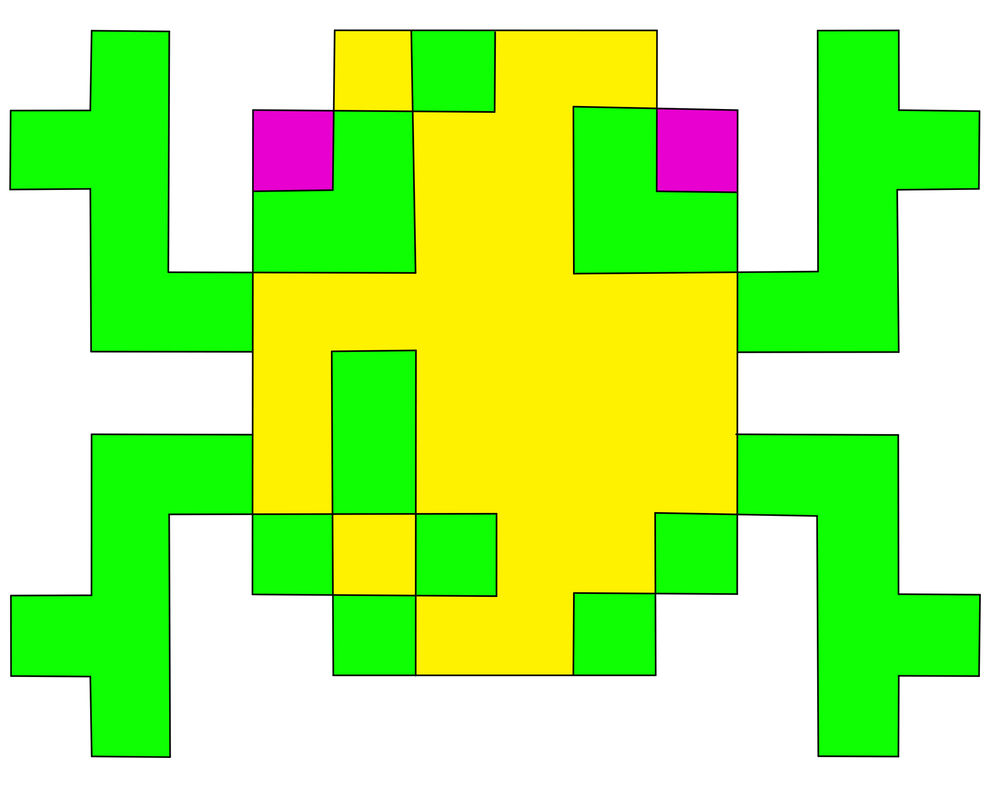
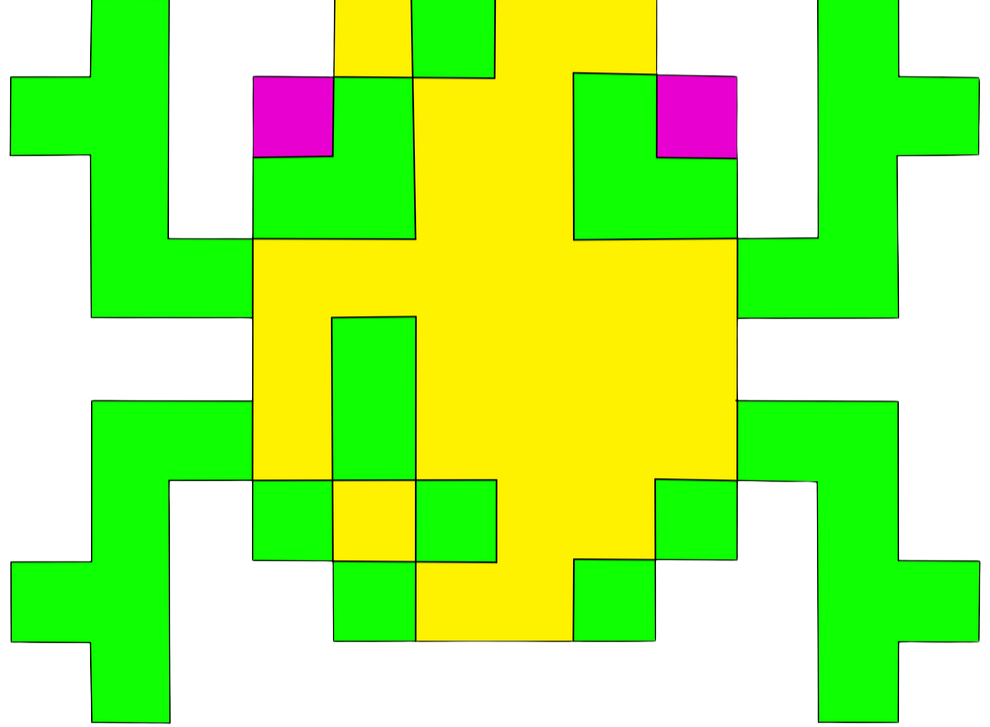
Movimiento rana acorde a filas y columnas arreglado

diff --git a/Frontend/Frontend_Allegro/screen.c b/Frontend/Frontend_Allegro/screen.c
@@ -1,6 +1,7 @@
 /*------------INCLUDES-----------*/
 #include "allegro.h"
 #include <stdio.h>
+#include <unistd.h>
 #include "../../Backend/frog.h"
 
 /*------Function Screen------*/
@@ -23,7 +24,7 @@ void Screen(AllegroResources *resources, uint8_t map[ROWS][COLUMNS], frog_t *fro
 
 
     // Tamaño de cada celda
-    uint32_t cell_width = (resources->width + 80) / (COLUMNS-6);
+    uint32_t cell_width = (resources->width + 80) / (COLUMNS-5);
     uint32_t cell_height = resources->height / ROWS;
 
     // Dibujar elementos del mapa
@@ -94,7 +95,7 @@ void Screen(AllegroResources *resources, uint8_t map[ROWS][COLUMNS], frog_t *fro
                         0, 0, // Coordenadas de origen
                         al_get_bitmap_width(image_to_draw),  // Ancho original
                         al_get_bitmap_height(image_to_draw), // Alto original
-                        x-350, y, // Posición en la pantalla compensado por las columnas restantes
+                        x-300, y, // Posición en la pantalla compensado por las columnas restantes
                         cell_width * counter, cell_height * compensate, // Nuevo ancho y alto
                         0 // Sin banderas adicionales
                     );
@@ -123,21 +124,19 @@ void Screen(AllegroResources *resources, uint8_t map[ROWS][COLUMNS], frog_t *fro
             } */
             
         // Obtener las coordenadas de la rana desde la estructura frog
-        int frog_x = get_frog_x(frog); // Obtener coordenada X de la rana
-        int frog_y = get_frog_y(frog); // Obtener coordenada Y de la rana
-
+        float frog_x = get_frog_x(frog); // Obtener coordenada X de la rana
+        float frog_y = get_frog_y(frog) + 0.20; // Obtener coordenada Y de la rana
         // Calcula la posición en la pantalla (si es necesario ajustar la escala)
-        int screen_x = frog_x * cell_width;  // Ajusta si la coordenada X se refiere a una celda
-        int screen_y = frog_y * cell_height; // Ajusta si la coordenada Y se refiere a una celda
-
+        float screen_x = frog_x * cell_width;  // Ajusta si la coordenada X se refiere a una celda
+        float screen_y = frog_y * cell_height; // Ajusta si la coordenada Y se refiere a una celda
         // Dibujar la rana
         al_draw_scaled_bitmap(
             resources->images[14],                   // Imagen de la rana
             0, 0,                                    // Coordenadas de origen de la imagen
             al_get_bitmap_width(resources->images[14]), // Ancho original de la imagen
             al_get_bitmap_height(resources->images[14]), // Alto original de la imagen
-            screen_x, screen_y,                      // Posición de la rana en la pantalla
-            cell_width, cell_height,                 // Tamaño ajustado para la rana
+            screen_x, (screen_y),                      // Posición de la rana en la pantalla
+            cell_width*0.9, cell_height*0.9,                 // Tamaño ajustado para la rana
             0                                         // Sin banderas adicionales
         );
     }

diff --git a/Frontend/Frontend_Allegro/events.c b/Frontend/Frontend_Allegro/events.c
@@ -33,16 +33,14 @@ void events_managment(AllegroResources *resources, ALLEGRO_EVENT_QUEUE *event_qu
 
                 case ALLEGRO_KEY_DOWN:
                     printf("Tecla presionada: FLECHA ABAJO\n");
-                    set_frog_y(frog, get_frog_y(frog) + 1);
-                    printf("%d", get_frog_y(frog));
+                    set_frog_y(frog, get_frog_y(frog) + 0.96);
                     // Lógica para manejar FLECHA ABAJO
                     /* if (resources->selected_option < 3) 
                         resources->selected_option++; */
                     break;
                 case ALLEGRO_KEY_UP:
                     printf("Tecla presionada: FLECHA ARRIBA\n");
-                    set_frog_y(frog, get_frog_y(frog) - 1);
-                    printf("%d", get_frog_y(frog));
+                    set_frog_y(frog, get_frog_y(frog) - 0.96);
                     // Lógica para manejar FLECHA ARRIBA
 
                     /* if (resources->selected_option > 1) 
@@ -51,14 +49,12 @@ void events_managment(AllegroResources *resources, ALLEGRO_EVENT_QUEUE *event_qu
                 case ALLEGRO_KEY_LEFT:
                     printf("Tecla presionada: FLECHA IZQUIERDA\n");
                     set_frog_x(frog, get_frog_x(frog) - 1);
-                    printf("%d", get_frog_x(frog));
                     // Lógica para manejar FLECHA IZQUIERDA
                     break;
 
                 case ALLEGRO_KEY_RIGHT:
                     printf("Tecla presionada: FLECHA DERECHA\n");
                     set_frog_x(frog, get_frog_x(frog) + 1);
-                    printf("%d", get_frog_x(frog));
                     // Lógica para manejar FLECHA DERECHA
                     break;
 

diff --git a/Backend/frog.h b/Backend/frog.h
@@ -5,8 +5,8 @@
 
 // Definición de la estructura para la rana
 typedef struct {
-    int8_t x;           // Coordenada x de la rana
-    int8_t y;           // Coordenada y de la rana
+    float x;           // Coordenada x de la rana
+    float y;           // Coordenada y de la rana
     uint8_t vidas;      // Cantidad de vidas
     int16_t puntos;     // Puntos acumulados por el jugador
     int8_t llegadas;    // Cantidad de veces que el jugador llegó al final
@@ -15,18 +15,18 @@ typedef struct {
 // Funciones relacionadas con la rana
 
 // Inicialización
-void init_frog(frog_t *frog, int8_t x, int8_t y, uint8_t vidas, int16_t puntos, int8_t llegadas);
+void init_frog(frog_t *frog, float x, float y, uint8_t vidas, int16_t puntos, int8_t llegadas);
 
 // Accesores (getter)
-int8_t get_frog_x(const frog_t *frog);
-int8_t get_frog_y(const frog_t *frog);
+float get_frog_x(const frog_t *frog);
+float get_frog_y(const frog_t *frog);
 uint8_t get_frog_vidas(const frog_t *frog);
 int16_t get_frog_puntos(const frog_t *frog);
 int8_t get_frog_llegadas(const frog_t *frog);
 
 // Modificadores (setter)
-void set_frog_x(frog_t *frog, int8_t x);
-void set_frog_y(frog_t *frog, int8_t y);
+void set_frog_x(frog_t *frog, float x);
+void set_frog_y(frog_t *frog, float y);
 void set_frog_vidas(frog_t *frog, uint8_t vidas);
 void set_frog_puntos(frog_t *frog, int16_t puntos);
 void set_frog_llegadas(frog_t *frog, int8_t llegadas);
@@ -37,6 +37,6 @@ void decrease_frog_vidas(frog_t *frog, uint8_t vidas);
 void increase_frog_llegadas(frog_t *frog);
 
 // Movimiento
-void move_frog(frog_t *frog, int8_t dx, int8_t dy);
+void move_frog(frog_t *frog, float dx, float dy);
 
 #endif // FROG_H

diff --git a/Backend/frog.c b/Backend/frog.c
@@ -1,7 +1,7 @@
 #include "frog.h"
 
 // Función para inicializar la rana con valores predeterminados
-void init_frog(frog_t *frog, int8_t x, int8_t y, uint8_t vidas, int16_t puntos, int8_t llegadas) {
+void init_frog(frog_t *frog, float x, float y, uint8_t vidas, int16_t puntos, int8_t llegadas) {
     frog->x = x;
     frog->y = y;
     frog->vidas = vidas;
@@ -10,11 +10,11 @@ void init_frog(frog_t *frog, int8_t x, int8_t y, uint8_t vidas, int16_t puntos, 
 }
 
 // Funciones para obtener los valores
-int8_t get_frog_x(const frog_t *frog) {
+float get_frog_x(const frog_t *frog) {
     return frog->x;
 }
 
-int8_t get_frog_y(const frog_t *frog) {
+float get_frog_y(const frog_t *frog) {
     return frog->y;
 }
 
@@ -31,11 +31,11 @@ int8_t get_frog_llegadas(const frog_t *frog) {
 }
 
 // Funciones para modificar los valores
-void set_frog_x(frog_t *frog, int8_t x) {
+void set_frog_x(frog_t *frog, float x) {
     frog->x = x;
 }
 
-void set_frog_y(frog_t *frog, int8_t y) {
+void set_frog_y(frog_t *frog, float y) {
     frog->y = y;
 }
 
@@ -69,7 +69,7 @@ void increase_frog_llegadas(frog_t *frog) {
 }
 
 // Función para mover la rana
-void move_frog(frog_t *frog, int8_t dx, int8_t dy) {
+void move_frog(frog_t *frog, float dx, float dy) {
     frog->x += dx;
     frog->y += dy;
 }

diff --git a/Backend/main.c b/Backend/main.c
@@ -9,7 +9,7 @@ int main(void)
 {
     extern map_t map; // Variable global de la matriz
     frog_t frog_position;
-    init_frog(&frog_position, 5, 10, 3, 0, 0);
+    init_frog(&frog_position, 6, 12, 3, 0, 0);
     AllegroResources resources_for_main = allegro_init(map); // Inicializa allegro
     ALLEGRO_EVENT_QUEUE *event_queue = init_events(resources_for_main.display); // Crea la cola de eventos
 
